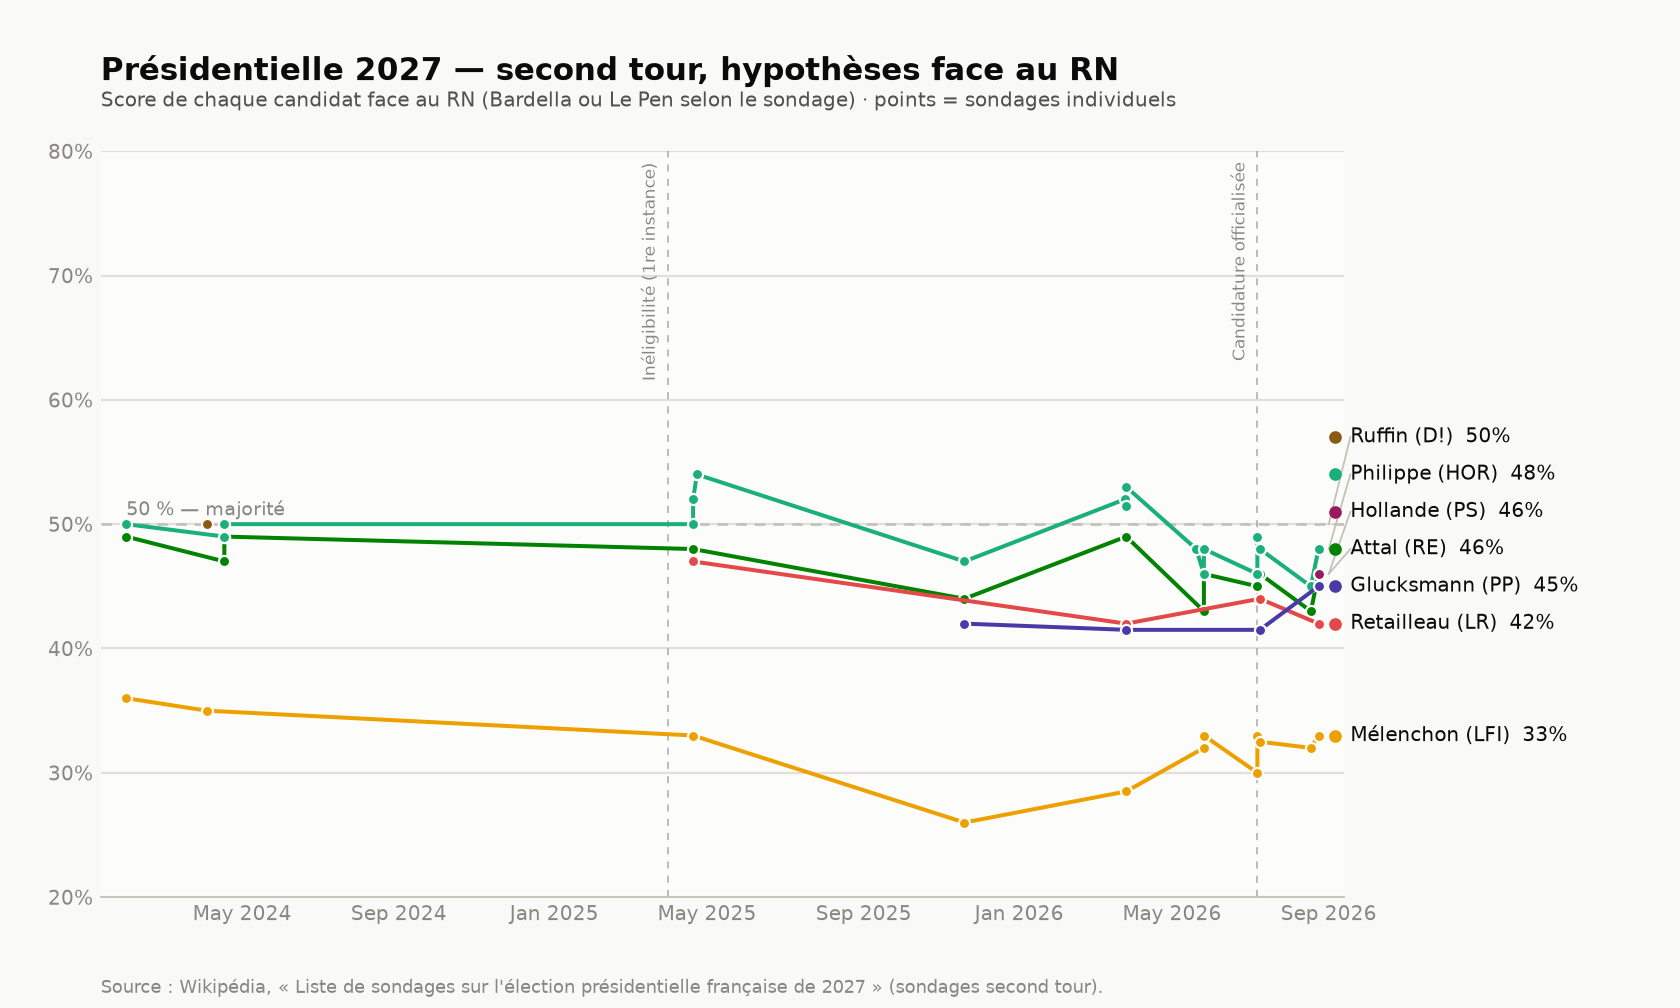
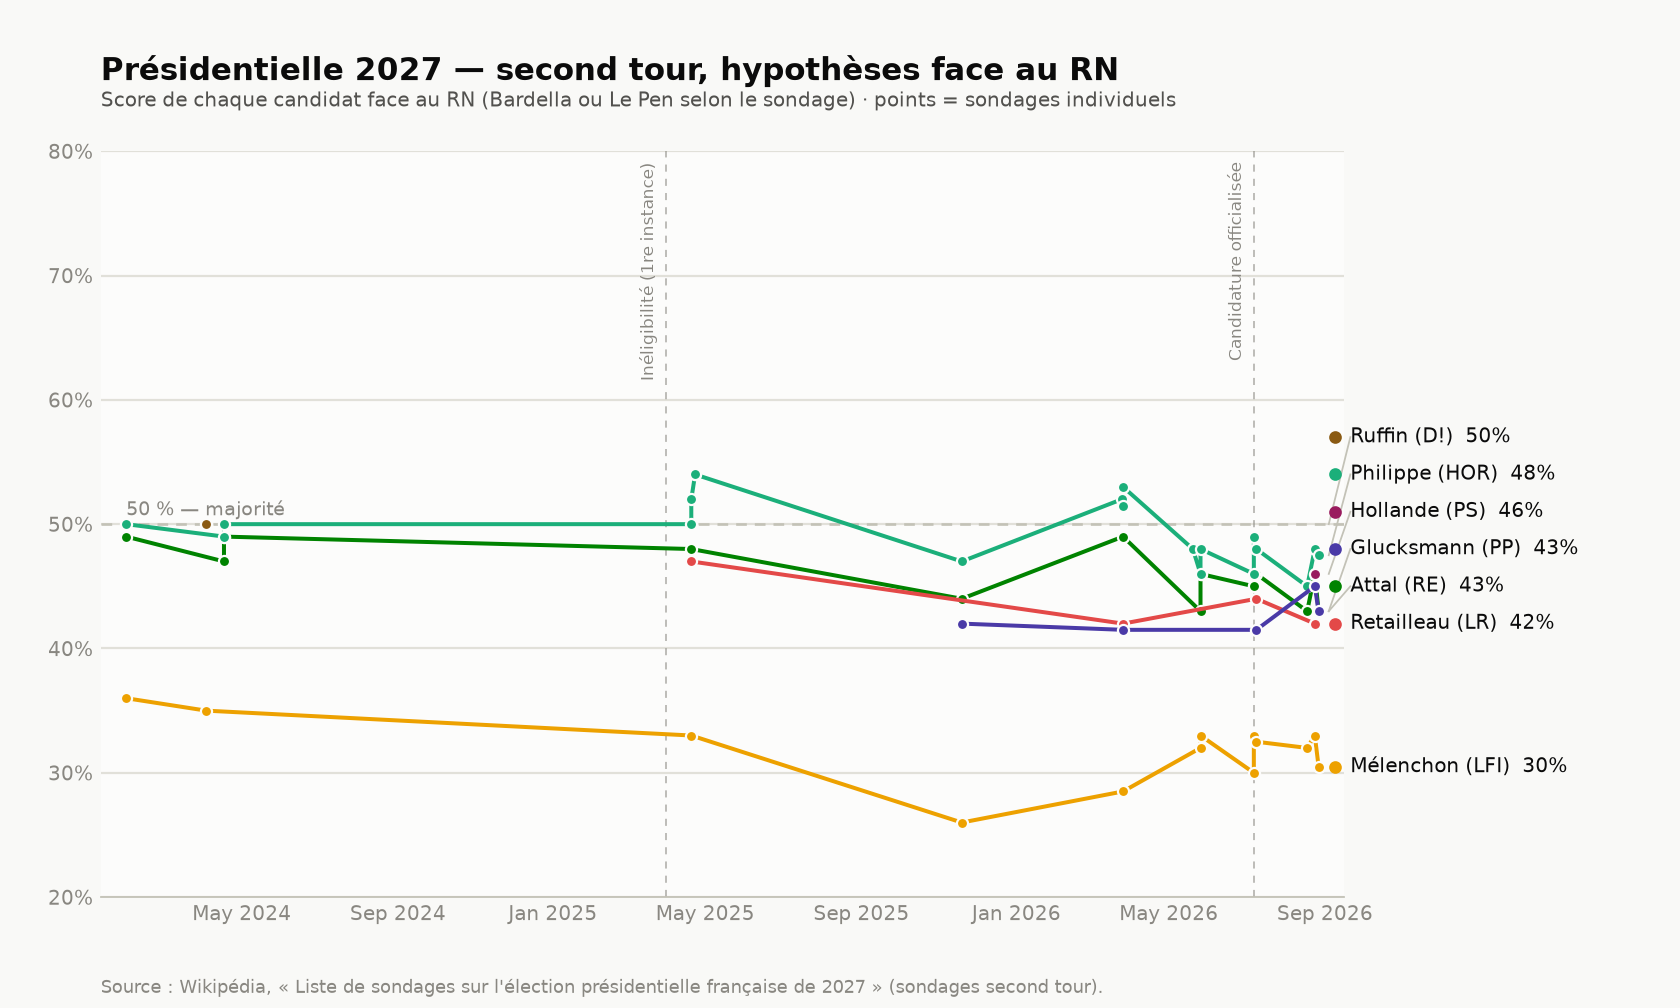
Add Elabe 26-28 August 2026 runoff poll (Attal, Glucksmann, Mélenchon, Philippe vs Le Pen)
Source: https://www.commission-des-sondages.fr/notices/files/notices/2026/aout/10245-pres-iv-elabe-29-aout.pdf
n=1503. Results: Attal 43-57, Glucksmann 43-57, Mélenchon 30.5-69.5,
Philippe 47.5-52.5 (all vs Le Pen). Regenerated from a fresh parse of
polls_2027_second_round.csv, which also reorders the existing Hollande-Le
Pen row into its grouped position (no content change). No new candidates,
so no new chart colors needed. First-round data (2026 section) had no
changes this run.

diff --git a/README.md b/README.md
@@ -105,7 +105,7 @@ included in this CSV — ask if you want those pulled too.
 
 Second-round (runoff) hypothetical match-up polls, January 2024 – August 2026,
 scraped from the same Wikipedia page's "Sondages concernant le second tour"
-section (pulled 2026-08-27). Each subsection there ("Hypothèse X – Y") polls
+section (pulled 2026-08-31). Each subsection there ("Hypothèse X – Y") polls
 one specific pairing — Attal, Mélenchon, Philippe, Glucksmann and Retailleau
 each against the RN candidate (Bardella through early 2026, Le Pen from her
 2026-07-07 candidacy onward), plus a single early Ruffin–Le Pen poll and, from
